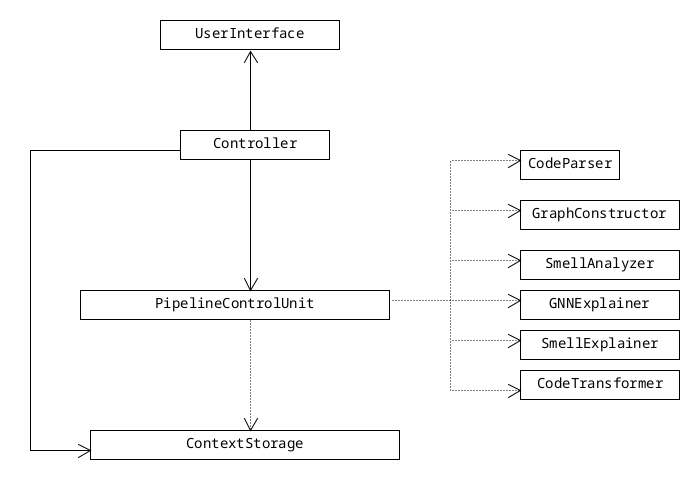
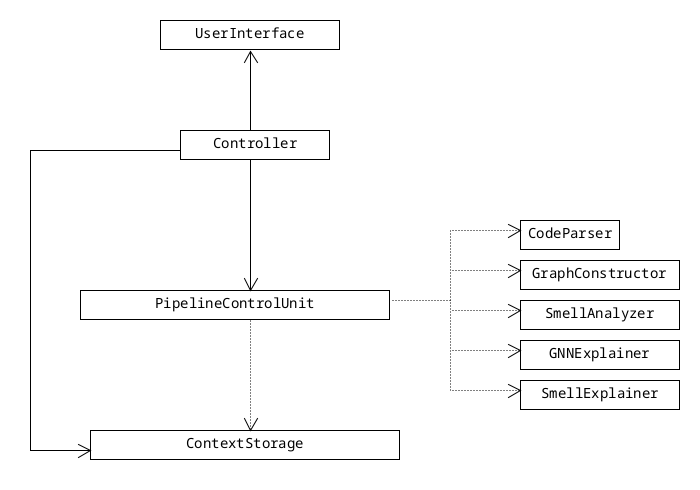
Features MCP server, in all section

Changed region(s): [[0.72, 0.398, 0.96, 0.8265], [0.72, 0.3061, 0.87, 0.3673]]

diff --git a/body/softwarearchitecture.tex b/body/softwarearchitecture.tex
@@ -19,7 +19,7 @@ and the pipeline control unit orchestrates execution of analysis components to p
 Key Software Architectural Components:
 
 \begin{itemize}
-    \item \textbf{UserInterface:} Responsible for receiving user input and displaying results, providing an interface for users to operate the application.
+    \item \textbf{UserInterface:} Responsible for receiving user input and displaying results, providing an interface for users to operate the application. This includes graphical visualization via desktop application, headless execution via CLI, and MCP server.
     \item \textbf{Controller:} Coordinates data flow between the user interface and the pipeline control unit, ensuring inputs are processed and results are exposed.
     \item \textbf{PipelineControlUnit:} Invokes and manages execution of pipeline nodes, supporting configurable analysis workflows.
     \item \textbf{ContextStorage:} Stores and manages state and intermediate data (such as the TOML IR and graph structures) so that relevant data is available to the controller and pipeline components.
@@ -43,7 +43,7 @@ The PCU sequentially invokes the \textbf{CodeParser} to generate the TOML Interm
 \end{figure}
 
 \subsection{Interactive Visualization and XAI Explanation}
-For the interactive visualization, the system links the visual graph data with explainability outputs. When a user selects a specific architectural smell from the UI, the \textbf{Controller} requests a textual explanation.
+For the interactive visualization, the system links the visual graph data with explainability outputs. When a user selects a specific architectural smell from the GUI, the \textbf{Controller} requests a textual explanation.
 
 Instead of pre-computing explanations for every node, the PCU retrieves the contextual sub-graph from \textbf{ContextStorage} and invokes the \textbf{GNNExplainer} to extract feature importance and subgraph weights on demand. These weights, together with raw static metrics, are passed to the \textbf{SmellExplainer}, which constructs a prompt for an LLM to generate a textual justification. The lazy-evaluation approach ensures costly LLM inferences are executed only on demand, reducing resource usage.
 
@@ -90,7 +90,7 @@ with the parsed code.
 For the classification model, we use a GraphSAGE model for architectural smell classification.
 From exsisting literature, it has been shown that inductive models outperform transitive models
 in code classification tasks {insert ref here}. While GATs can be modelled as an inductive algorithm,
-they are prone to overfitting on graph attributes causing poor performance on unseen data. Additionally, 
+they are prone to overfitting on graph attributes causing poor performance on unseen data. Additionally,
 when comparing GraphSAGE to GCN and GAT models, GraphSAGE is significantly faster on graphs with large edges and
 nodes. It is up to 7 and 44 times faster than GAT and GCN respectively {insert ref here}.
 \\

diff --git a/body/requirementanalysis.tex b/body/requirementanalysis.tex
@@ -49,7 +49,10 @@ This section lists the primary user stories followed by compact, run-in formatte
     \item[US-04: CLI Integration:] As a \textbf{DevOps Engineer}, I want to run architectural analysis via a CLI so I can integrate checks into CI pipelines.
     \item[US-05: Exportable Metrics:] As a \textbf{Researcher}, I want to export architectural metrics in standard formats so I can perform further quantitative analysis.
     \item[US-06: Graph Controls:] As a \textbf{Lead Developer}, I want zoom, filter, and focus controls for the architectural graph so I can examine specific components or clusters.
-    \item[US-07: MCP Support:] As a \textbf{Lead Developer}, I want MCP support so that I can let the Agentic AI suggest and refactor the codebase to address detected smells.
+    \item \textbf{US-07: MCP Support for AI Integration} \\
+    As a \textit{Lead Developer}, \\
+    I want to expose \usevar{\srsNickName}'s analysis through an MCP server, \\
+    so that my AI-assisted development tools can automatically incorporate architectural smell data and justifications into their context for better-informed code reviews.
 \end{description}
 
 \subsection{Use Cases}
@@ -164,6 +167,16 @@ Extensions:
 \section{Use Case Diagrams}
 \label{section:use-case-diagrams}
 
+\subsection{UC-6: Expose Analysis via MCP Server}
+\label{subsubsection:uc-6}
+\begin{tabularx}{\textwidth}{@{}p{3.2cm}X@{}}
+Primary Actor: & Agentic AI (via MCP).
+Goal: & Programmatically retrieve smell data and justifications.
+Success Scenario: & The agent queries the MCP server; the server fetches results from storage and returns a structured JSON payload containing the smells and their XAI justifications.
+\end{tabularx}
+
+\subsection{Use Case Diagram}
+\label{subsection:use-case-diagram}
 \begin{figure}[htbp]
     \centering
     \includegraphics[width=0.8\textwidth]{diagrams/usecase.png}

diff --git a/body/introduction.tex b/body/introduction.tex
@@ -55,7 +55,7 @@ The \textbf{TOML-based IR} approach ensures the decoupling of the analysis model
     \item[\textbf{Architectural Smell Detection}] Algorithmic identification of structural \textit{anti-patterns}, including Cyclic Dependencies, God Components, and Hub-like dependencies.
     \item[\textbf{XAI Explanations}] Generation of concise, metric-backed natural-language explanations using \textbf{Explainable AI (XAI)} to justify why particular structures were classified as smells.
     \item[\textbf{Visualization}] A graphical interface for inspecting the system architecture, showing dependencies and flagged smells for manual review.
-    \item[\textbf{MCP Server}] A background service that allows Agentic AI systems to query the architecture and receive explanations, enabling integration into agentic AI workflows.
+    \item[\textbf{MCP Server}] A Model Context Protocol server that allows agentic AI tools to interface with the analysis results. It provides a standardized way for AI agents to query detected smells, retrieve architectural justifications (XAI), and understand the codebase structure without direct manual extraction.
 \end{description}
 
 \section{Target User}
